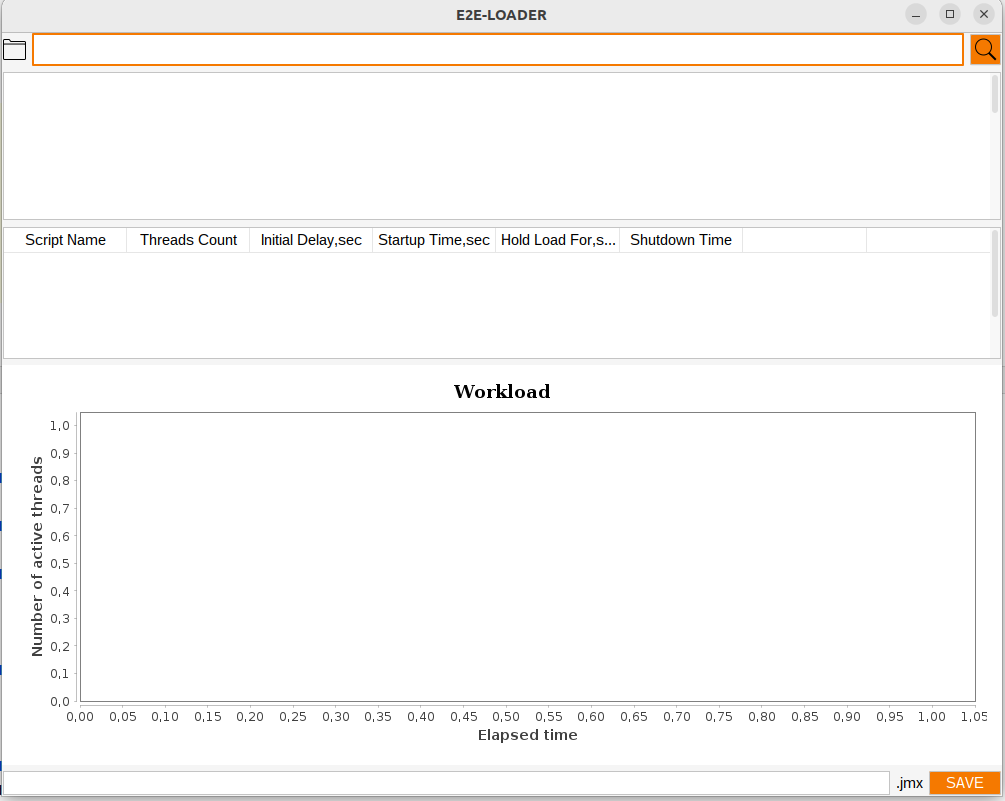
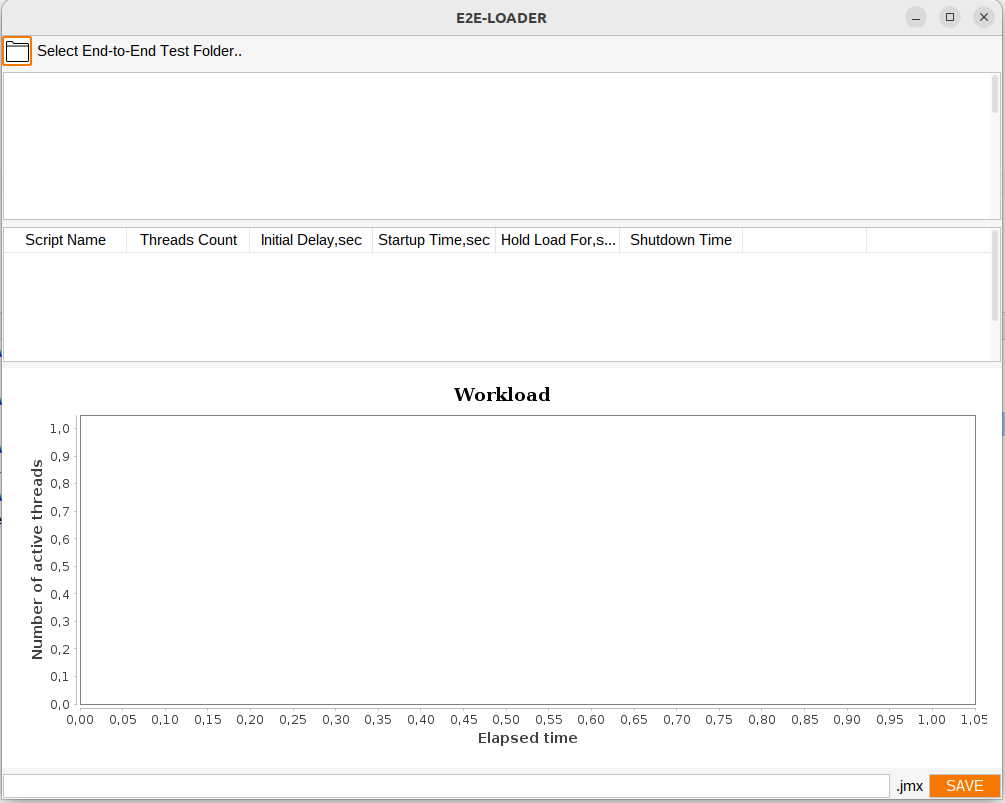
readme changed. Addition of a new pop-up to warn about the required time for the script generation.

diff --git a/src/main/java/Services/CorrelationsView/CorrelationFrameService.java b/src/main/java/Services/CorrelationsView/CorrelationFrameService.java
@@ -158,6 +158,9 @@ public class CorrelationFrameService {
             @Override
             public void actionPerformed(ActionEvent actionEvent) {
 
+                JOptionPane.showMessageDialog(null, "Script creation in progress...\n May take some time...",
+                        "Script creation",
+                        JOptionPane.WARNING_MESSAGE);
                 String correlation_selected= "";
                 int cnt=0;
                 for(int i=0;i<correlationFrame.getCorrelationsTable().getRowCount();i++) {
@@ -177,6 +180,7 @@ public class CorrelationFrameService {
                         System.out.println(e.toString());
                     }
                     try {
+
                         DependencyGraph dependencyGraph = DependencyGraph.parseGraphByFile(new File(Paths.dep_saved_path+"/"+correlation_selected));
                         //String nameCorr = CorrelationNameSelected.split("-")[1].split("\\.")[0];
                         JMeterAdaption.runJMeterAdaption(dependencyGraph,Paths.scripts_saved_path+"/"+filename+".jmx",correlation_selected);

diff --git a/README.md b/README.md
@@ -74,12 +74,32 @@ This test refers to the open-source system [restful-booker-platform](https://git
 
 #### 🧪 Generating Performance Tests E2E-Loader: Step-by-step tutorial
 Once E2E-Loader is launched, the following interface will appear:
-1. **Select input paths**: Provide the path to the directory containing your E2E tests, along with the `hars/` folder containing the corresponding HAR files.
-   In your case: ```<your-path>\example\gui-tests\```
-   ![Select input paths](screens/1.png)
+1. **Select input paths**: Click on the **folder icon** to open the file chooser and select the directory that contains your E2E test cases  
+   (e.g., `<your-path>/example/gui-tests/`).
 
-2. **Inspect available GUI tests**: After clicking the magnifying glass icon, a list of automatically detected GUI tests will appear. Each represents a possible user-behavior to add to your workload. For example, select the test `create_and_delete_room` as shown in the following screen capture.
-   ![Inspect available GUI tests](screens/2.png)
+⚠ **Important:**  
+The selected directory **must contain a subfolder named `hars/`**, which stores the HAR files corresponding to each E2E test.  
+The tool automatically searches for HAR files inside this folder, so no manual path input is required.
+Example directory structure:
+
+```text
+example/
+└── gui-tests/
+    ├── hars/
+    │   ├── test1.har
+    │   ├── test2.har
+    │   └── ...
+    ├── test1.js
+    ├── test2.js
+    └── ...
+```
+
+
+![Select input paths](screens/1.png)
+![Inspect available GUI tests](screens/2.png)
+
+2. **Inspect available GUI tests**: After selecting the E2E tests folder, a list of automatically detected GUI tests will appear. Each represents a possible user-behavior to add to your workload. For example, select the test `create_and_delete_room` as shown in the following screen capture.
+   ![Inspect available GUI tests](screens/2.5.png)
 
 3. **Load configurations**: A new window opens showing any saved configurations for the selected user-behavior. If none exist, create a new one by clicking the + button in the top-left corner.
    ![](screens/3.png)
@@ -98,19 +118,30 @@ Once E2E-Loader is launched, the following interface will appear:
 
 7. **Example dependency resolution**: Another case shows a query parameter dependency (`roomid=2`) identified with two possible requests (request 5 and request 6). The tester must decide which dependency to keep.
    ![](screens/7.png)
-8. **Save configuration**: Once satisfied with dependencies, provide a name in the bottom field and click **Save**.
+8. **Save configuration**: Once you are satisfied with the dependencies:
+   - Enter a name for the configuration in the bottom field (e.g., `scp-example`).
+   - Click **Save**.
+   - After a short moment, a pop-up will appear confirming that the dependencies have been saved.
+   - Close the current window and return to the previous page to continue.
    ![](screens/8.png)
-9. **Generate workload script**: Return to the previous page where the saved configuration now appears. Select it, then click **Create Script** (top-left) and finally **Add to Workload**.
-   ![](screens/9.png)
+9. **Generate workload script**: Return to the previous page, where the saved configuration now appears in the *Correlation Files* table. 
+- Select the newly created configuration (e.g., `create-and-delete-room-scp-example.json`). 
+- Click **Create Script** (top-left).
+- A pop-up will appear indicating that script generation may take some time. 
+- Once completed, the generated JMeter script will appear in the lower table listing all available scripts. 
+- Select the generated file (e.g., `create-and-delete-room-scp-example.jmx`) and click **Add to Workload** to include this user behavior in the desired workload.
+![](screens/9.png)
+![](screens/10.png)
 10. **Build workload**: Back at the main screen of the tool, you can:
     - Populate the workload table.
     - Add multiple rows of the same user-behavior for realistic workload modeling.
     - Add additional user-behaviors (repeating from step 2).
     - Preview the shape of the workload through the interface.
+    ![](screens/11.a.png)
+    ![](screens/11.b.png)
 11. **Export final workload**: Once satisfied, enter a name and click Save.
-    ![](screens/11a.png)
     This generates the final JMeter script, which is ready to use and can be opened also within JMeter, as shown in the following screen capture.
-    ![](screens/11b.png)
+    ![](screens/12.png)
 
 
 #### 👽 Advanced Example
